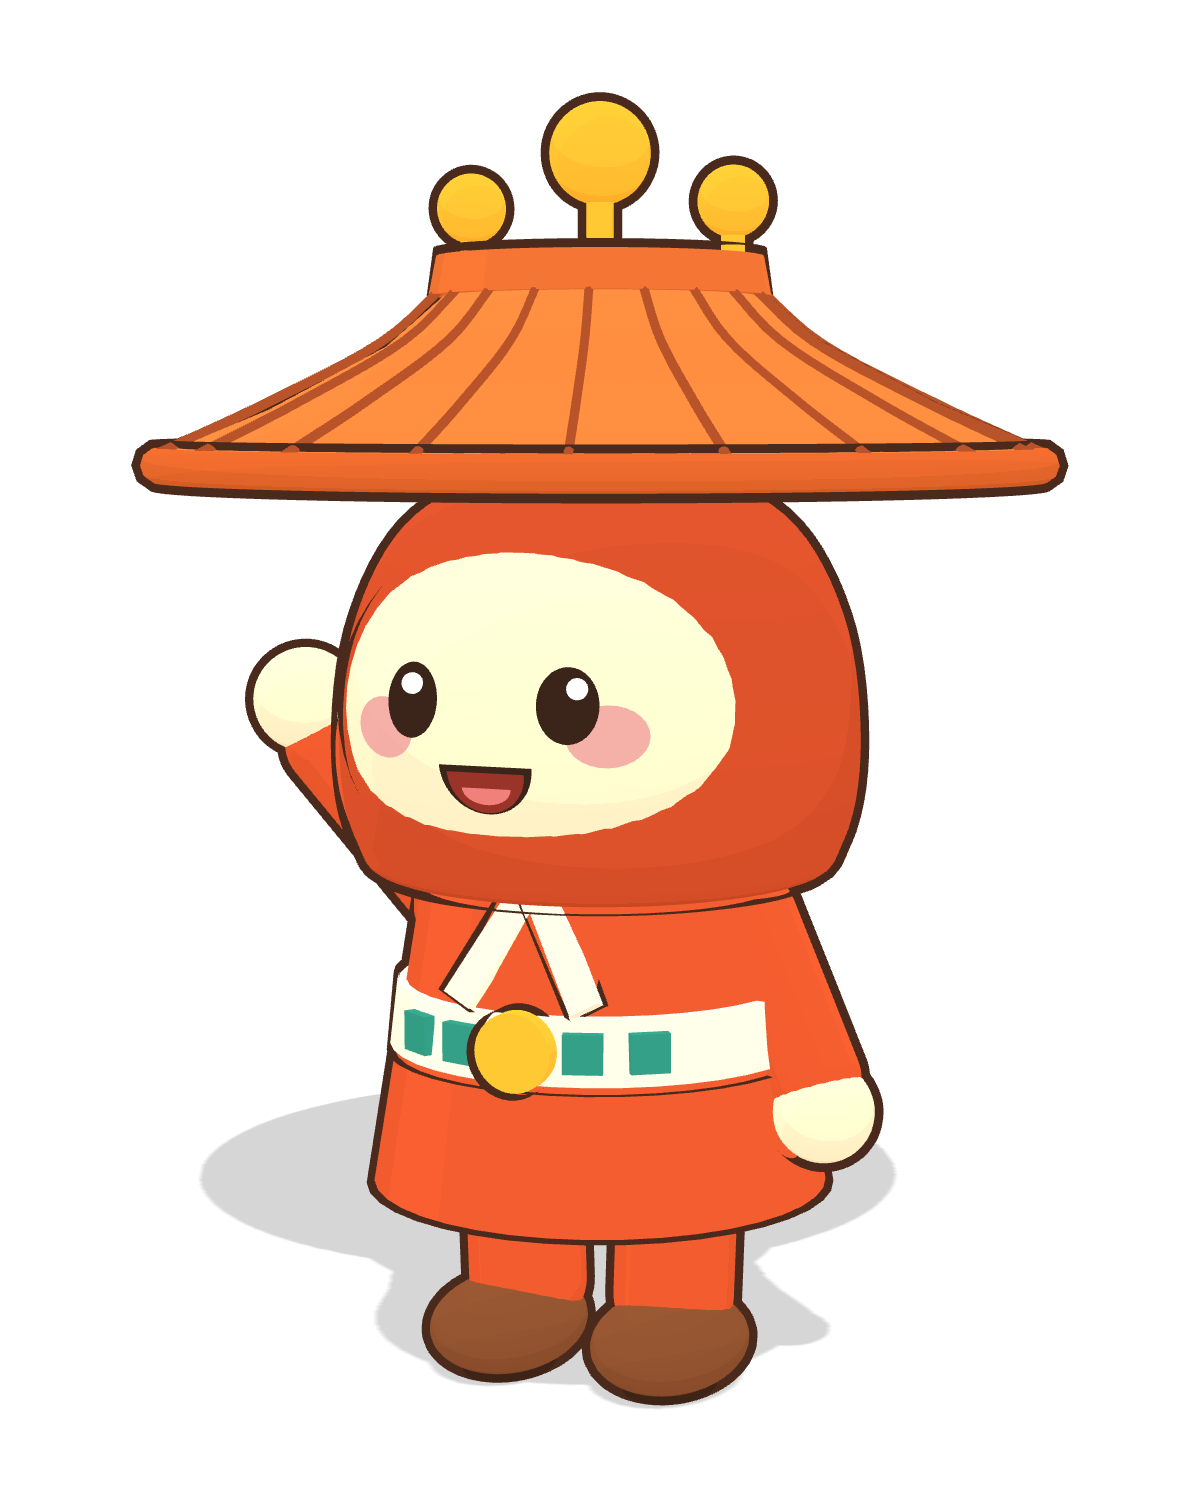
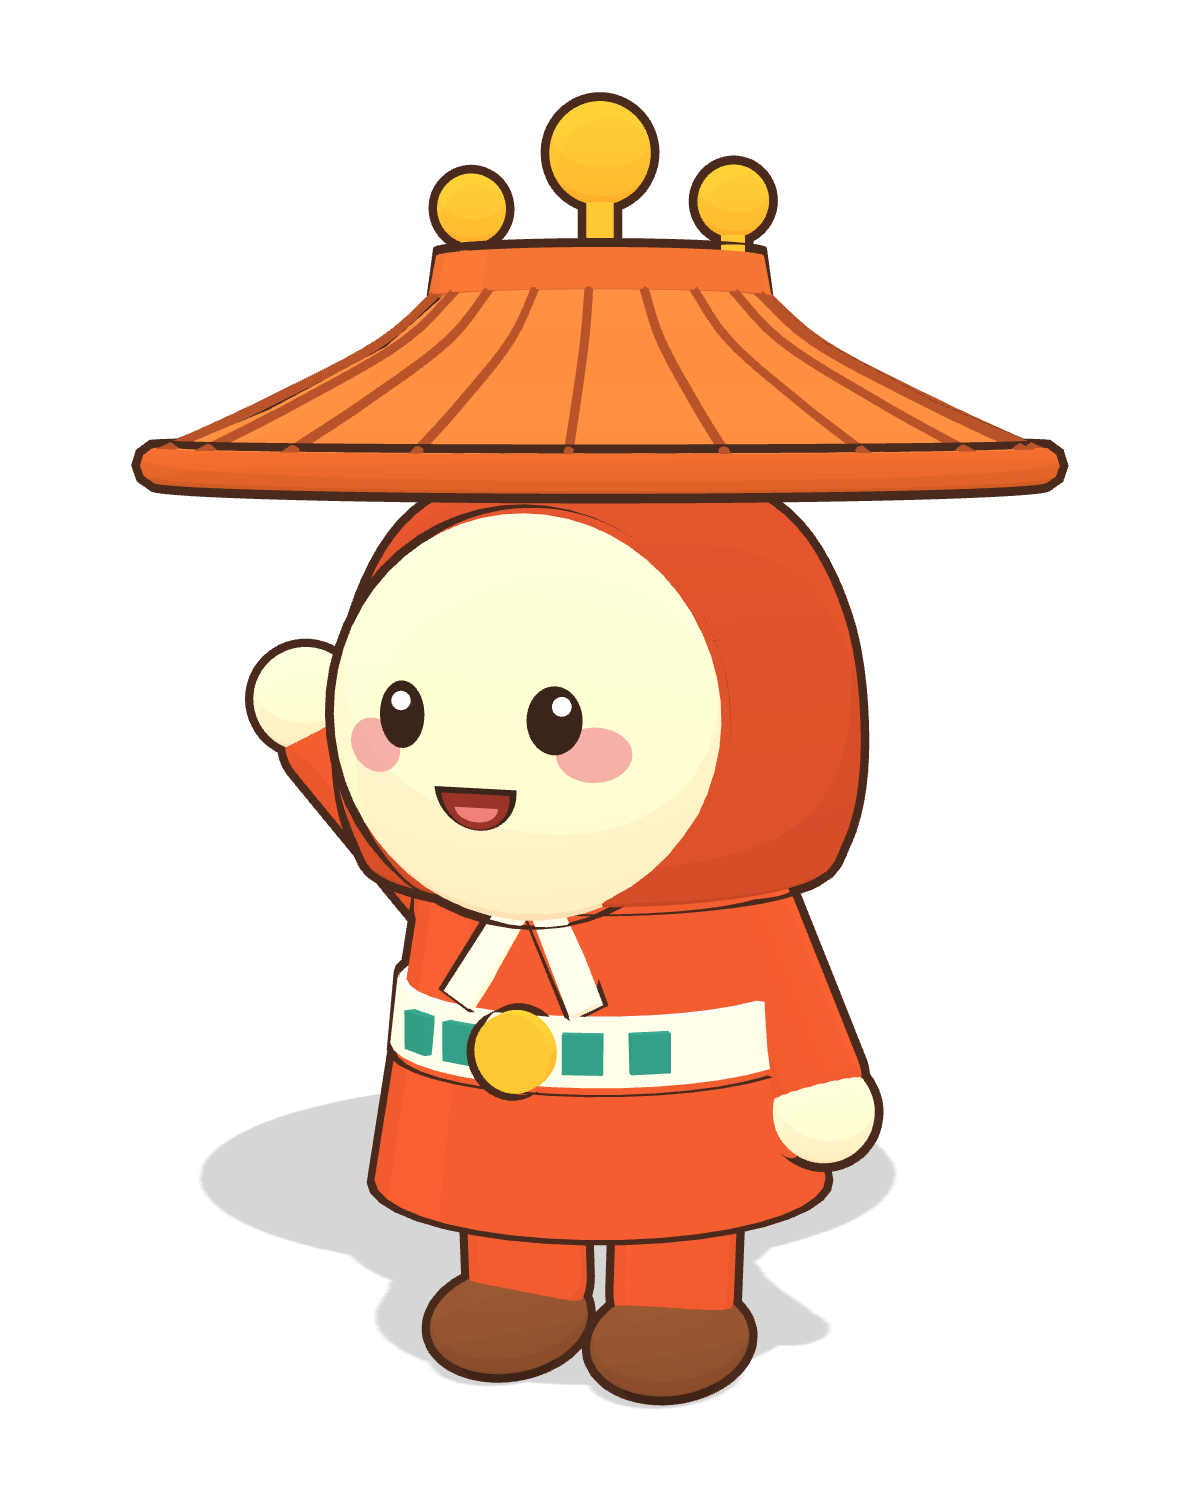
全全 3D 臉改成正圓、完整露在頭罩前方

diff --git a/mascots3d.js b/mascots3d.js
@@ -175,9 +175,10 @@ function quanquan() {
   // 頭：圓潤的紅色頭罩（鐘形，下緣略寬、無兩側鼓包），大圓臉在正面
   const hoodCurve = new THREE.SplineCurve([[0, 0], [0.52, 0], [0.64, 0.1], [0.68, 0.34], [0.64, 0.66], [0.5, 0.92], [0.26, 1.05], [0, 1.08]].map(([x, y]) => V2(x, y)));
   part(new THREE.LatheGeometry(hoodCurve.getPoints(48), 64), HOOD, { parent: g, pos: [0, 1.34, 0] });
-  const fc = [0, 1.8, 0.32], fr = [0.54, 0.48, 0.42];
+  // 臉：正圓、整個露在頭罩前方（不被頭罩切成面具形），厚度壓扁避免像口鼻
+  const fc = [0, 1.8, 0.5], fr = [0.5, 0.5, 0.3];
   part(S(1), FACE, { parent: g, pos: fc, scale: fr });
-  face(g, ellipsoidSurf(fc, fr), { eyes: 'open', spread: 0.38, eyeY: 0.12, mouthY: -0.22, blushOut: 0.18, blushY: -0.15 });
+  face(g, ellipsoidSurf(fc, fr), { eyes: 'open', size: 0.88, spread: 0.4, eyeY: 0.06, mouthY: -0.3, blushOut: 0.2, blushY: -0.16 });
 
   // 琉璃屋頂
   const roofPts = [[0, 0], [1.12, 0], [1.14, 0.05], [0.85, 0.17], [0.55, 0.33], [0.4, 0.46], [0, 0.48]];
